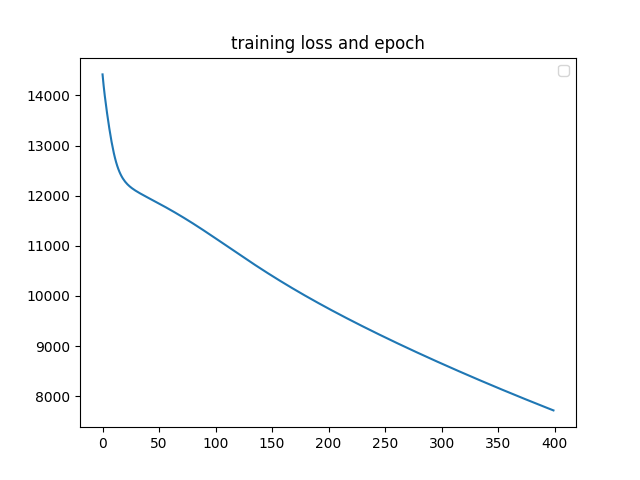
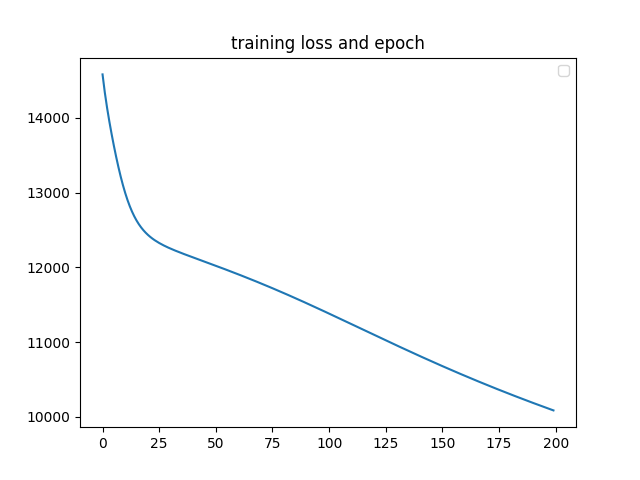
combined modifications

diff --git a/part_a/neural_network.py b/part_a/neural_network.py
@@ -26,6 +26,7 @@ def load_data(base_path="../data"):
     train_matrix = load_train_sparse(base_path).toarray()
     valid_data = load_valid_csv(base_path)
     test_data = load_public_test_csv(base_path)
+    train_data = load_train_csv(base_path)
 
     zero_train_matrix = train_matrix.copy()
     # Fill in the missing entries to 0.
@@ -34,7 +35,7 @@ def load_data(base_path="../data"):
     zero_train_matrix = torch.FloatTensor(zero_train_matrix)
     train_matrix = torch.FloatTensor(train_matrix)
 
-    return zero_train_matrix, train_matrix, valid_data, test_data
+    return zero_train_matrix, train_matrix, train_data, valid_data, test_data
 
 
 class AutoEncoder(nn.Module):
@@ -190,7 +191,7 @@ def evaluate(model, train_data, valid_data):
 
 
 def main():
-    zero_train_matrix, train_matrix, valid_data, test_data = load_data()
+    zero_train_matrix, train_matrix, train_data, valid_data, test_data = load_data()
 
     #####################################################################
     # TODO:                                                             #
@@ -238,12 +239,12 @@ def main():
     model = AutoEncoder(train_matrix.shape[1], k)
 
     # Set optimization hyperparameters.
-    lr = 0.001
-    num_epoch = 400
-    lamb = 0.0001
+    lr = 0.01
+    num_epoch = 40
+    lamb = 0.001
 
     train(model, lr, lamb, train_matrix, zero_train_matrix,
-          valid_data, num_epoch)
+          train_data, valid_data, num_epoch)
     test_result = evaluate(model, zero_train_matrix, test_data)
     print("test accuracy: \n" + str(test_result))
     #####################################################################

diff --git a/partB_test/NN_original.py b/partB_test/NN_original.py
@@ -80,7 +80,7 @@ class AutoEncoder(nn.Module):
         #####################################################################
 
         inner = self.g.forward(inputs)
-        inner_act = nn.ReLU()(inner)
+        inner_act = nn.Tanh()(inner)
         hidden1 = self.encode1.forward(inner_act)
         hidden2 = self.encode2.forward(hidden1)
         hidden2_act = nn.Sigmoid()(hidden2)
@@ -193,7 +193,8 @@ def main():
     lamb = 0.0001
     train(model, lr, lamb, train_matrix, zero_train_matrix,
           valid_data, num_epoch)
-
+    test_result = evaluate(model, zero_train_matrix, test_data)
+    print("test accuracy: \n" + str(test_result))
     #####################################################################
     #                       END OF YOUR CODE                            #
     #####################################################################
